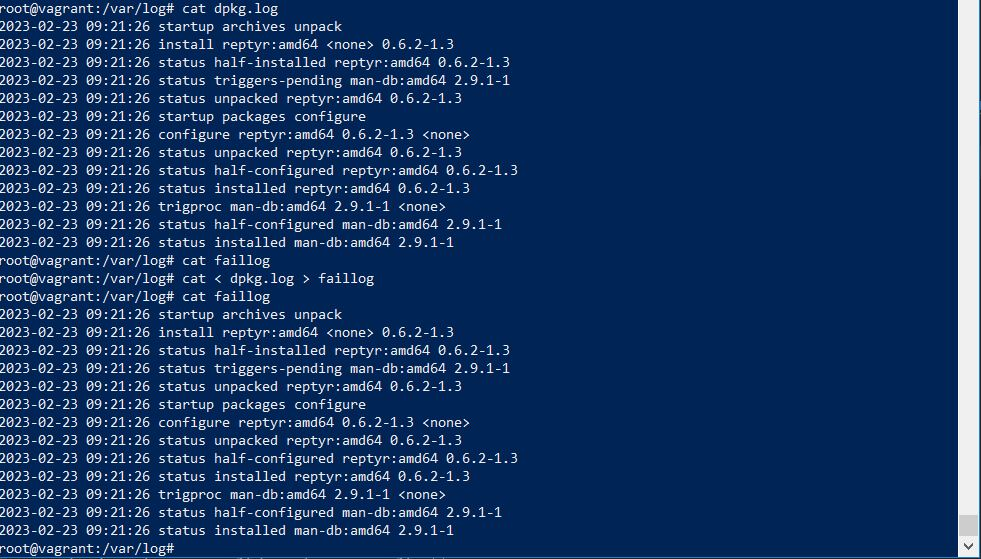
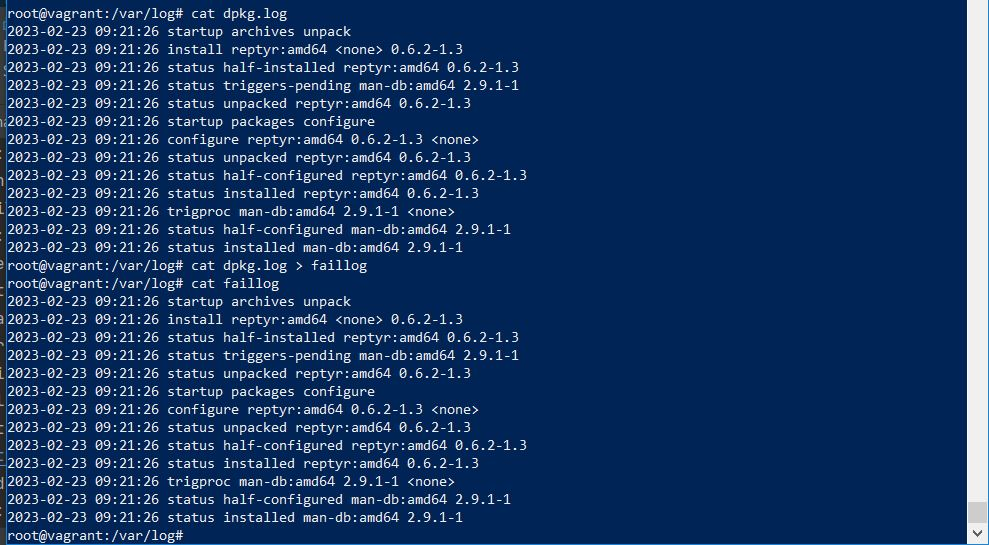
Done HW_Term2

Changed region(s): [[0.0, 0.0, 1.0, 1.0]]

diff --git a/Homework/HW_Term2.md b/Homework/HW_Term2.md
@@ -41,7 +41,7 @@
 
 5. Получится ли одновременно передать команде файл на stdin и вывести ее stdout в другой файл? Приведите работающий пример.
 
-    >root@vagrant:/var/log# ls < /etc > /dev/pts/1
+    >root@vagrant:/var/log# cat dpkg.log > faillog
 
     ![3](https://github.com/AVasMakarov/devops-netology/blob/main/Screenshots/HW_Term2/3.JPG?raw=true)
 
